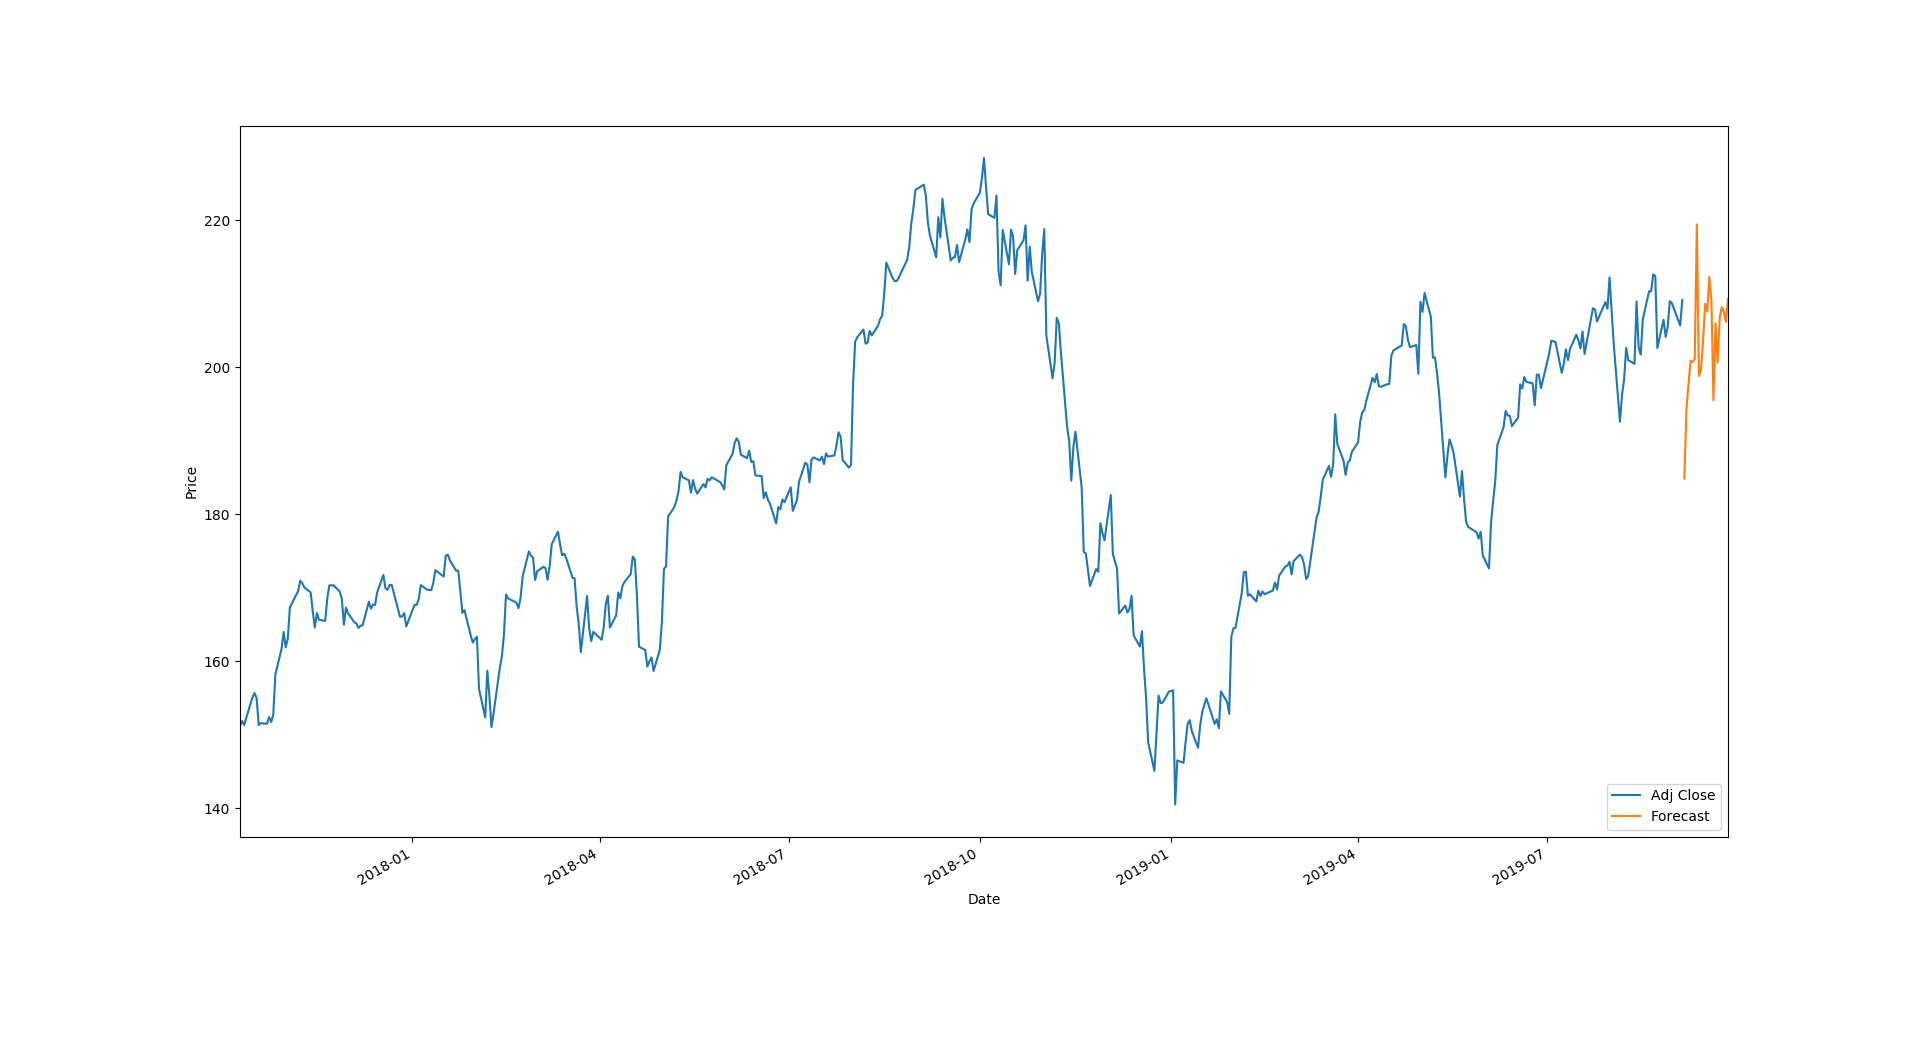
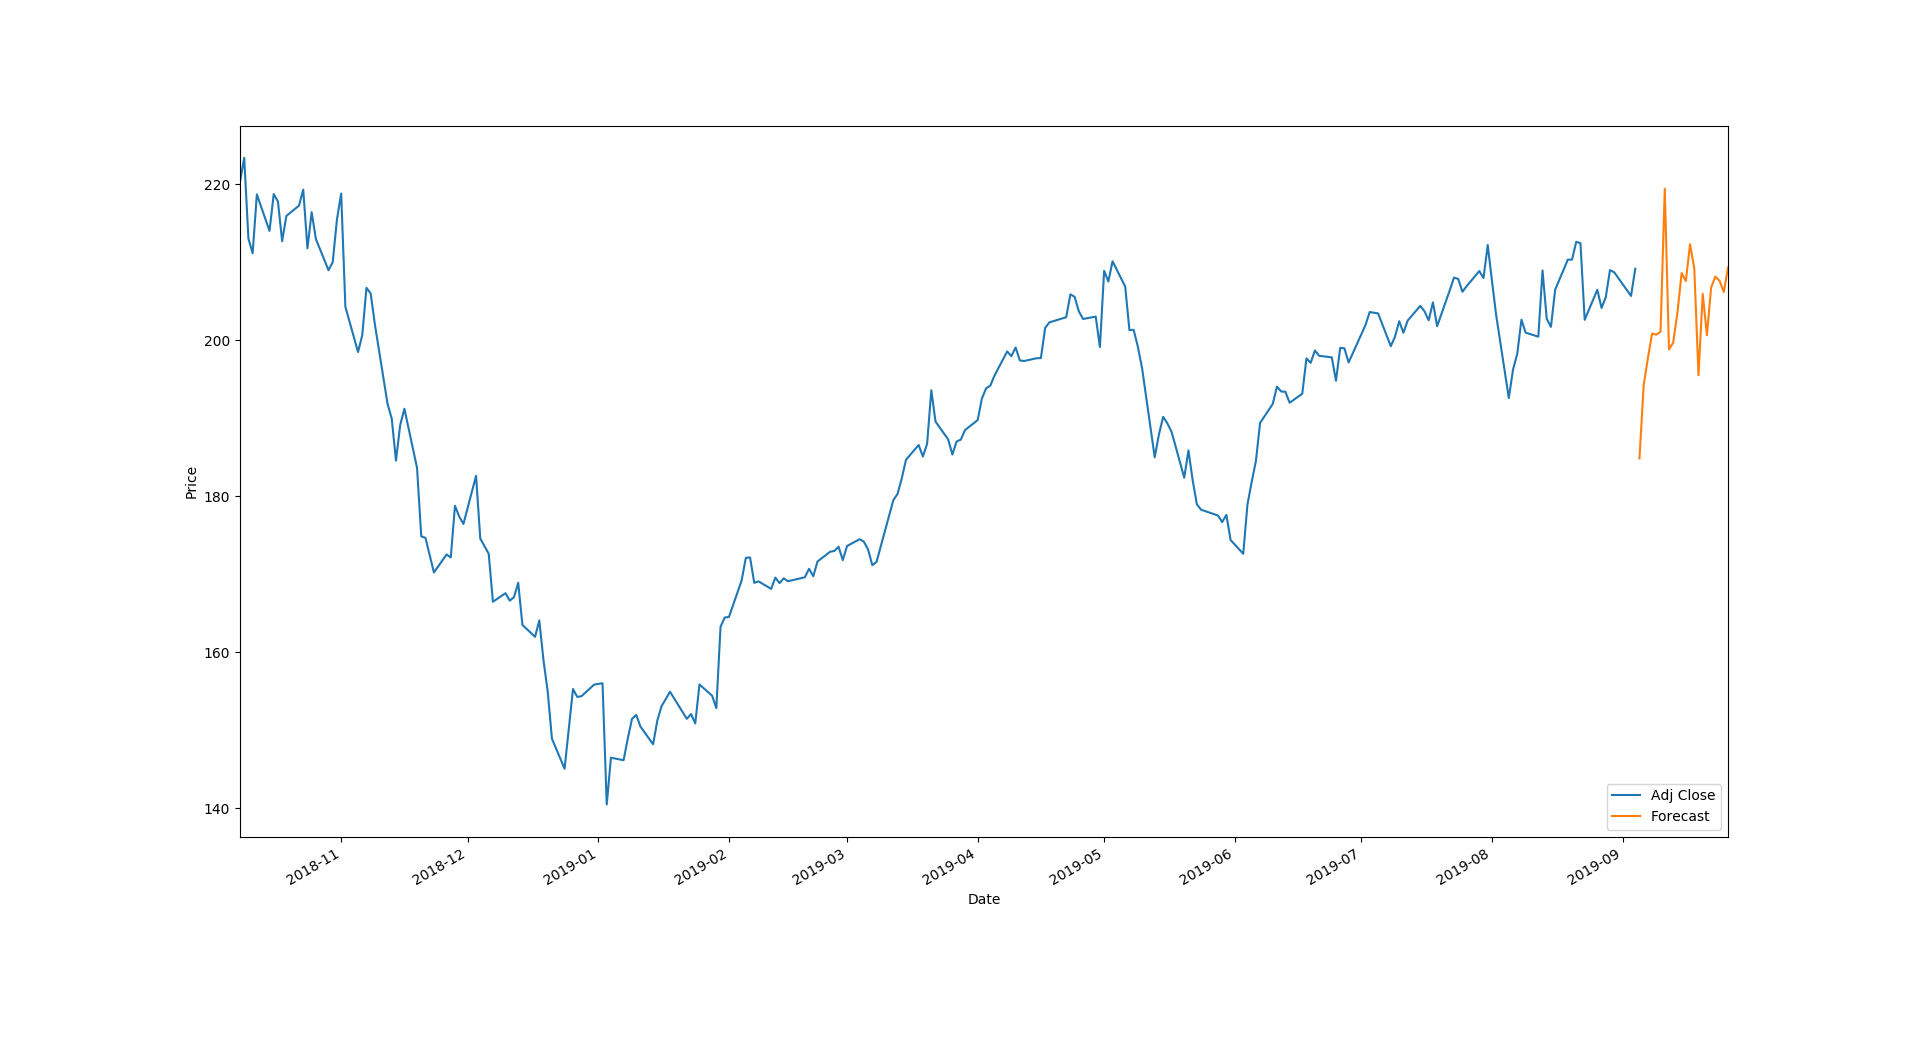
better plot

diff --git a/predict.py b/predict.py
@@ -106,8 +106,8 @@ for i in forecast_set:
     next_date = next_unix
     next_unix += datetime.timedelta(days=1)
     dfreg.loc[next_date] = [np.nan for _ in range(len(dfreg.columns)-1)]+[i]
-dfreg['Adj Close'].tail(500).plot()
-dfreg['Forecast'].tail(500).plot()
+dfreg['Adj Close'].tail(250).plot()
+dfreg['Forecast'].tail(250).plot()
 plt.legend(loc=4)
 plt.xlabel('Date')
 plt.ylabel('Price')
